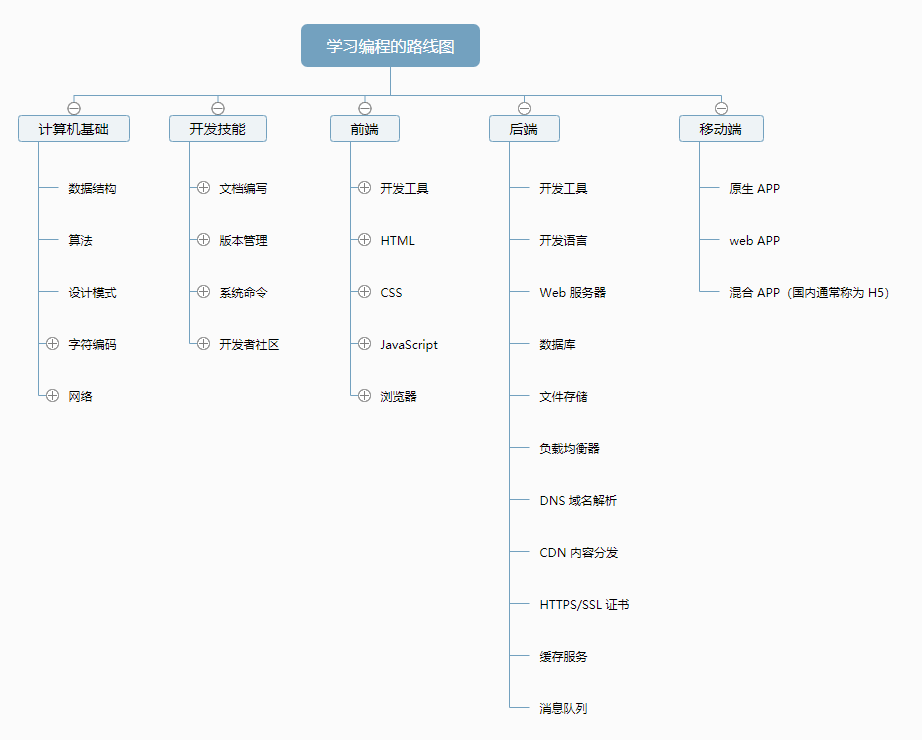
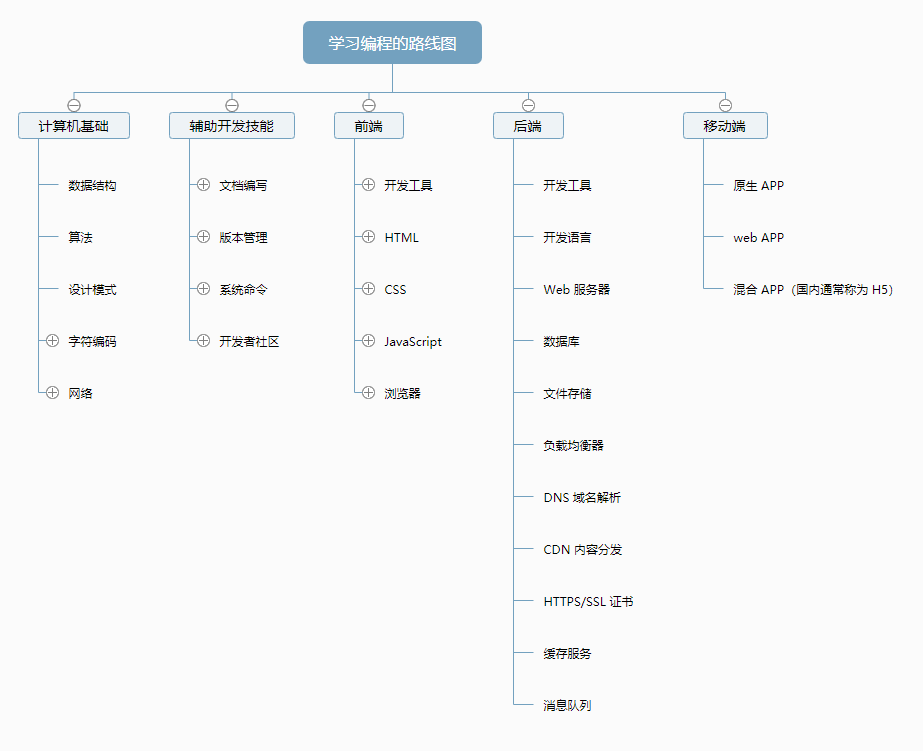
辅助开发技能：调整路线图

diff --git a/1-辅助开发技能/0-文档编写/README.md b/1-辅助开发技能/0-文档编写/README.md
@@ -1,0 +1,2 @@
+# 文档编写
+1. [markdown](markdown)
